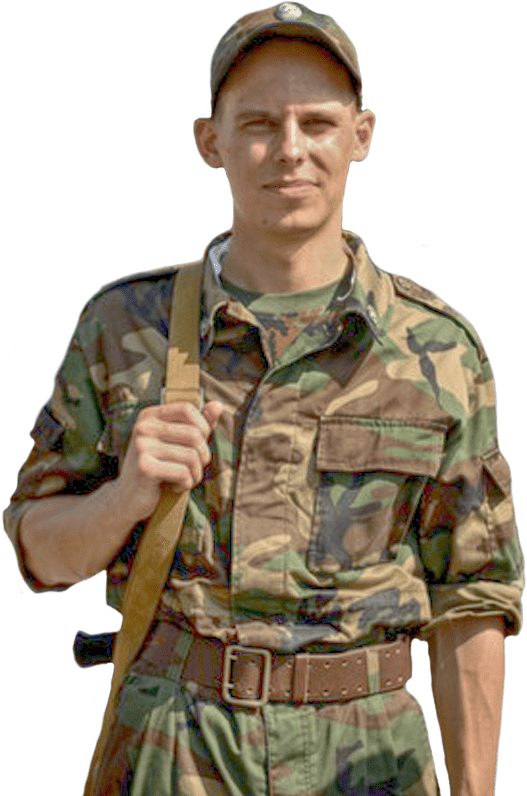
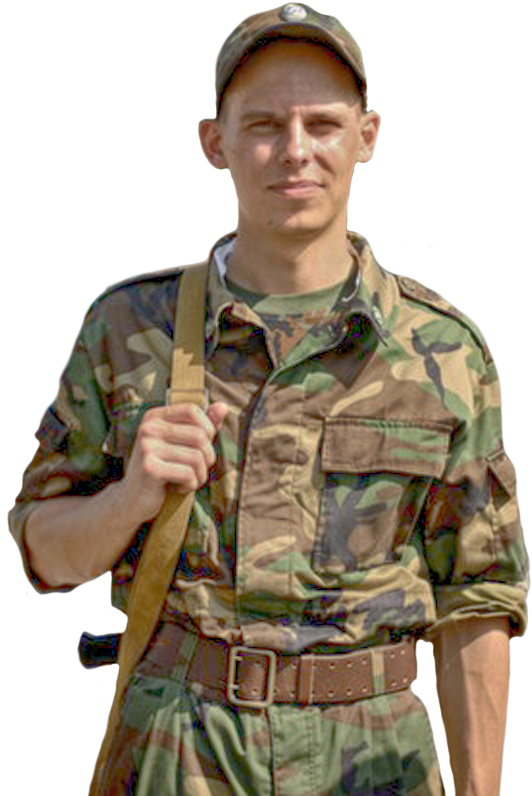
3

diff --git a/projects/militarylanding/css/style-min.css b/projects/militarylanding/css/style-min.css
@@ -1,4 +1,4 @@
-*{margin:0;padding:0;-webkit-box-sizing:border-box;box-sizing:border-box}html{font-size:10px}body{-webkit-box-sizing:border-box;box-sizing:border-box}.slider{max-width:90%;position:relative;margin:auto auto auto auto}img.d-block.w-100{height:150px}.carousel-indicators{position:absolute;right:0;bottom:-30px}.carousel-indicators li{width:8px;height:8px;border-radius:10px;position:relative;background-color:white;border:1px solid black}.carousel-indicators .active{background-color:#222;border:1px solid white}.main{padding-top:75px;min-height:100vh;max-width:100%;background-image:url(../img/background.png);background-repeat:no-repeat;background-size:cover;background-position:100% 100%}.main .container-table{display:table;width:100%;height:100%}.main .container{display:table-cell;vertical-align:middle;overflow:hidden}.main .container .container-cell{position:relative;padding:0 26px;max-width:1683px;width:100%;height:100%;max-height:900px;margin:0 auto}.top-bar{display:-webkit-box;display:-ms-flexbox;display:flex;-webkit-box-orient:horizontal;-webkit-box-direction:normal;-ms-flex-direction:row;flex-direction:row;-webkit-box-align:center;-ms-flex-align:center;align-items:center;-webkit-box-pack:justify;-ms-flex-pack:justify;justify-content:space-between;margin-bottom:200px}.top-bar .logo{margin-top:20px}.top-bar .logo a{color:#ffffff;font-family:"Proxima Nova Condensed Black";font-size:42px;line-height:33.96px;text-transform:uppercase;position:relative;margin-left:110px;text-decoration:none}.top-bar .logo a:before{content:url("../img/youtube-icon.png");position:absolute;width:79px;height:56px;top:-5px;left:-90px}.top-bar nav.menu ul{display:-webkit-box;display:-ms-flexbox;display:flex;-webkit-box-orient:horizontal;-webkit-box-direction:normal;-ms-flex-direction:row;flex-direction:row}.top-bar nav.menu ul li{list-style:none}.top-bar nav.menu ul li a{opacity:0.5;color:#d9d8d8;font-family:"Proxima Nova Condensed Black";font-size:29px;font-weight:400;line-height:33.96px;text-transform:uppercase;text-decoration:none;padding:0 36.5px;border-right:1px solid black;text-shadow:-0   -1px 0   #000000,
+*{margin:0;padding:0;-webkit-box-sizing:border-box;box-sizing:border-box}html{font-size:10px}body{-webkit-box-sizing:border-box;box-sizing:border-box}.slider{max-width:90%;position:relative;margin:auto auto auto auto}img.d-block.w-100{height:150px}.carousel-indicators{position:absolute;right:0;bottom:-30px}.carousel-indicators li{width:8px;height:8px;border-radius:10px;position:relative;background-color:white;border:1px solid black}.carousel-indicators .active{background-color:#222;border:1px solid white}.main{padding-top:75px;min-height:100vh;max-width:100%;background-image:url(../img/background.png);background-repeat:no-repeat;background-size:cover;background-position:100% 100%}.main .container-table{display:table;width:100%;height:100%}.main .container{display:table-cell;vertical-align:middle}.main .container .container-cell{padding:0 26px;max-width:1683px;width:100%;height:100%;max-height:900px;margin:0 auto}.top-bar{display:-webkit-box;display:-ms-flexbox;display:flex;-webkit-box-orient:horizontal;-webkit-box-direction:normal;-ms-flex-direction:row;flex-direction:row;-webkit-box-align:center;-ms-flex-align:center;align-items:center;-webkit-box-pack:justify;-ms-flex-pack:justify;justify-content:space-between;margin-bottom:200px}.top-bar .logo{margin-top:20px}.top-bar .logo a{color:#ffffff;font-family:"Proxima Nova Condensed Black";font-size:42px;line-height:33.96px;text-transform:uppercase;position:relative;margin-left:110px;text-decoration:none}.top-bar .logo a:before{content:url("../img/youtube-icon.png");position:absolute;width:79px;height:56px;top:-5px;left:-90px}.top-bar nav.menu ul{display:-webkit-box;display:-ms-flexbox;display:flex;-webkit-box-orient:horizontal;-webkit-box-direction:normal;-ms-flex-direction:row;flex-direction:row}.top-bar nav.menu ul li{list-style:none}.top-bar nav.menu ul li a{opacity:0.5;color:#d9d8d8;font-family:"Proxima Nova Condensed Black";font-size:29px;font-weight:400;line-height:33.96px;text-transform:uppercase;text-decoration:none;padding:0 36.5px;border-right:1px solid black;text-shadow:-0   -1px 0   #000000,
          0   -1px 0   #000000,
         -0    1px 0   #000000,
          0    1px 0   #000000,

diff --git a/projects/militarylanding/css/media.css b/projects/militarylanding/css/media.css
@@ -3,7 +3,7 @@
     padding-top: 45px;
 }
 .top-bar {
-    margin-bottom: 250px;
+    margin-bottom: 200px;
 }
 .proposition-button #proposition-button_inner {
     line-height: 68px;
@@ -13,25 +13,30 @@
     padding: 0px;
 }
 .main-soldier {
-    bottom: 0px;
+    bottom: -50px;
+    left: 1085px;
+}
+.main-soldier img {
+    height: 966px;
+    width: 637px;
 }
 }
 
-@media screen and (max-width: 1600px) {
+@media screen and (max-width: 1650px) {
     .popup-content_container {
         width: 90%;
         height: 90%;
     }
 
-    main-soldier {
-        bottom: -100px;
-        left: 895px;
-    }
+.main-soldier {
+    bottom: 0px;
+    left: 955px;
+}
 
-    main-soldier img {
-        height: 796px;
-        width: 497px;
-    }
+.main-soldier img {
+    height: 716px;
+    width: 447px;
+}
 
     .popup-content .popup-content_container ul li {
         font-size: 38px;
@@ -46,10 +51,10 @@
         left: 885px;
     }
 
-    .main-soldier img {
-        height: 696px;
-        width: 377px;
-    }
+.main-soldier img {
+    height: 736px;
+    width: 377px;
+}
 
     .main-text button#main-button:before {
         top: -10px;
@@ -111,10 +116,10 @@
         font-size: 34px;
     }
 
-    .main-soldier {
-        bottom: -50px;
-        left: 615px;
-    }
+.main-soldier {
+    bottom: 0px;
+    left: 645px;
+}
 
     .main-text button#main-button {
         margin-left: 22px;
@@ -330,15 +335,15 @@
         display: none;
     }
 
-    .proposition-button hr {
-        width: 22px;
-        bottom: 0px;
-        left: 290px;
-    }
+.proposition-button hr {
+    width: 22px;
+    bottom: 0px;
+    left: 260px;
+}
 
 .main-soldier {
-    left: 475px;
-    bottom: 100px;
+    left: 495px;
+    bottom: 240px;
 }
 
     .main-soldier img {
@@ -449,10 +454,10 @@
         display: none;
     }
 
-    .main-soldier {
-        left: 405px;
-        bottom: 100px;
-    }
+.main-soldier {
+    left: 415px;
+    bottom: 180px;
+}
 
     .main-soldier img {
         height: 476px;
@@ -460,12 +465,12 @@
     }
 
 .proposition-button #proposition-button_outer {
-    margin-left: 100px;
+    margin-left: 90px;
 }
 
-    .proposition-button p {
-        margin-left: 70px;
-    }
+.proposition-button p {
+    margin-left: 90px;
+}
 
     .proposition-button hr {
         width: 32px;
@@ -537,6 +542,9 @@
 }
 
 @media (max-width: 737px) {
+    .proposition-button #proposition-button_outer {
+        margin-left: 0;
+    }
     .main-soldier {
         display: none;
     }
@@ -555,11 +563,11 @@
         margin-bottom: 30px;
     }
 
-    #countdown {
-        left: 115px;
-        top: 485px;
-        height: 78px;
-    }
+#countdown {
+    left: 75px;
+    top: 485px;
+    height: 78px;
+}
 
     .proposition-button {
         margin-left: 0px;
@@ -573,7 +581,7 @@
     }
 
     .proposition-button p {
-        margin-left: 70px;
+        margin-left: 0px;
         padding-bottom: 100px;
     }
 
